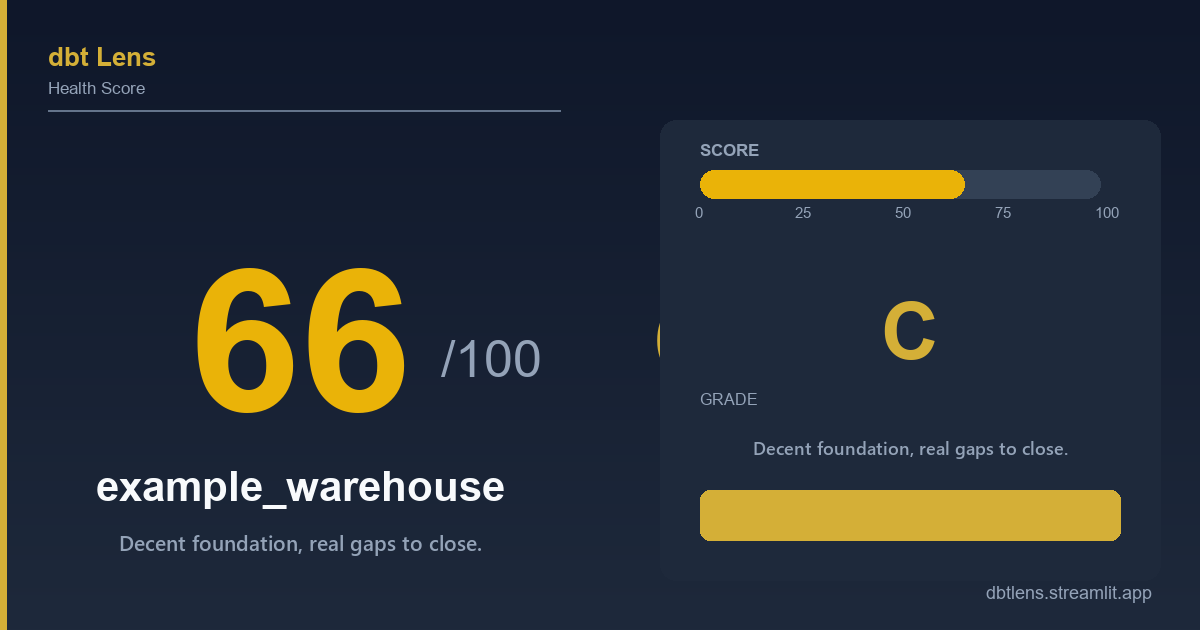
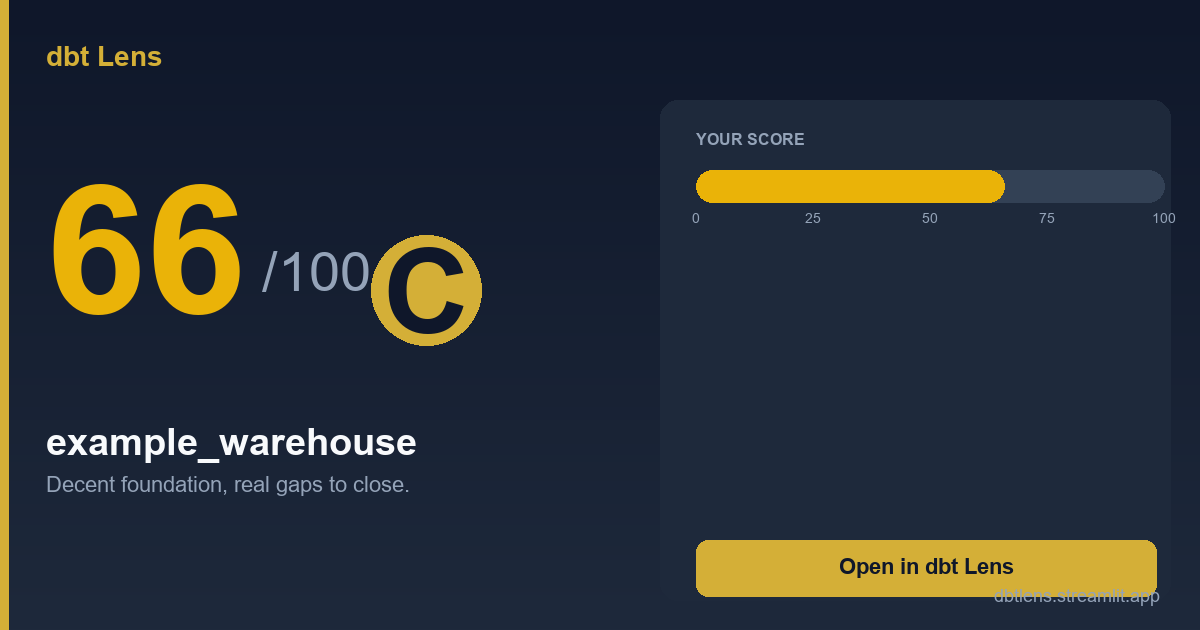
Fix DAG (description wrap, hide nav buttons, widen legend) + redesign share card (no duplicate score/grade/URL, clean CTA button)

diff --git a/dbtlens/card_generator.py b/dbtlens/card_generator.py
@@ -173,108 +173,119 @@ def generate_card(
     img = _gradient_bg(CARD_W, CARD_H)
     draw = ImageDraw.Draw(img)
 
-    # --- Accent stripe on left edge ---
-    draw.rectangle((0, 0, 6, CARD_H), fill=ACCENT)
+    # ── Accent stripe on left edge ─────────────────────────────────────
+    draw.rectangle((0, 0, 8, CARD_H), fill=ACCENT)
 
-    # --- Top-left brand mark ---
-    brand_font = _load_font(_FONT_CANDIDATES_BOLD, 26)
-    draw.text((48, 42), "dbt Lens", font=brand_font, fill=ACCENT)
-    sub_brand = _load_font(_FONT_CANDIDATES_REG, 17)
-    draw.text((48, 78), "Health Score", font=sub_brand, fill=TEXT_SECONDARY)
+    # ── LEFT SIDE — Brand + Score + Grade + Project name ────────────────
 
-    # --- Divider line ---
-    draw.rectangle((48, 110, 560, 111), fill=(100, 116, 139))
+    # Brand name at top-left
+    brand_font = _load_font(_FONT_CANDIDATES_BOLD, 28)
+    draw.text((46, 40), "dbt Lens", font=brand_font, fill=ACCENT)
 
-    # --- Big score (center-left) ---
-    big_font = _load_font(_FONT_CANDIDATES_BOLD, 200)
-    score_text = str(score)
-    _draw_text_centered(draw, score_text, big_font, (300, 340), _score_color(score))
+    # Big score number — large, readable, left-aligned
+    big_font = _load_font(_FONT_CANDIDATES_BOLD, 180)
+    score_color = _score_color(score)
+    # Draw score at a fixed left position so it's readable
+    draw.text((46, 150), str(score), font=big_font, fill=score_color)
 
-    # --- "/100" denominator ---
-    slash_font = _load_font(_FONT_CANDIDATES_REG, 52)
-    bbox = draw.textbbox((0, 0), score_text, font=big_font)
+    # "/100" beside the score
+    slash_font = _load_font(_FONT_CANDIDATES_REG, 56)
+    bbox = draw.textbbox((0, 0), str(score), font=big_font)
     score_w = bbox[2] - bbox[0]
-    _draw_text_left(draw, "/100", slash_font, 300 + score_w // 2 + 30, 340, TEXT_SECONDARY)
+    draw.text((46 + score_w + 16, 240), "/100", font=slash_font, fill=TEXT_SECONDARY)
 
-    # --- Grade badge ---
+    # Grade badge — to the right of the score
     if grade:
-        grade_font = _load_font(_FONT_CANDIDATES_BOLD, 110)
-        _draw_text_centered(
-            draw, grade, grade_font, (300 + score_w // 2 + 280, 340), ACCENT
+        grade_font = _load_font(_FONT_CANDIDATES_BOLD, 120)
+        # Position grade to the right of the score number
+        grade_x = 46 + score_w + 120
+        # Draw grade in a circle-ish badge
+        badge_r = 55
+        badge_cx = grade_x + 60
+        badge_cy = 290
+        draw.ellipse(
+            [badge_cx - badge_r, badge_cy - badge_r,
+             badge_cx + badge_r, badge_cy + badge_r],
+            fill=ACCENT,
+        )
+        # Draw grade letter centered
+        bbox_g = draw.textbbox((0, 0), grade, font=grade_font)
+        gw = bbox_g[2] - bbox_g[0]
+        gh = bbox_g[3] - bbox_g[1]
+        draw.text(
+            (badge_cx - gw // 2 - bbox_g[0], badge_cy - gh // 2 - bbox_g[1]),
+            grade, font=grade_font, fill=(15, 23, 42)
         )
 
-    # --- Project name ---
-    name_font = _load_font(_FONT_CANDIDATES_BOLD, 42)
-    _draw_text_centered(draw, name, name_font, (300, 490), TEXT_PRIMARY)
+    # Project name below score
+    name_font = _load_font(_FONT_CANDIDATES_BOLD, 38)
+    draw.text((46, 420), name, font=name_font, fill=TEXT_PRIMARY)
 
-    # --- Verdict tagline ---
+    # Verdict below project name
     verdict = _verdict_for(score)
-    verdict_font = _load_font(_FONT_CANDIDATES_LIGHT, 21)
-    _draw_text_centered(draw, verdict, verdict_font, (300, 545), TEXT_SECONDARY)
+    verdict_font = _load_font(_FONT_CANDIDATES_REG, 22)
+    draw.text((46, 472), verdict, font=verdict_font, fill=TEXT_SECONDARY)
 
-    # --- Right panel: score band + scan badge ---
+    # ── RIGHT SIDE — Progress bar + Scan badge ─────────────────────────
+
     panel_x = 660
     # Panel background
     draw.rounded_rectangle(
-        (panel_x, 120, panel_x + 500, CARD_H - 50),
-        radius=16,
+        (panel_x, 100, CARD_W - 30, CARD_H - 30),
+        radius=18,
         fill=(30, 41, 59),
     )
 
-    # Score band section
-    bar_x0, bar_y0 = panel_x + 40, 170
-    bar_w, bar_h = 400, 28
+    # "YOUR SCORE" label
+    label_font = _load_font(_FONT_CANDIDATES_BOLD, 16)
+    draw.text((panel_x + 36, 130), "YOUR SCORE", font=label_font, fill=TEXT_SECONDARY)
 
-    band_label_font = _load_font(_FONT_CANDIDATES_BOLD, 17)
-    draw.text((bar_x0, bar_y0 - 30), "SCORE", font=band_label_font, fill=TEXT_SECONDARY)
+    # Progress bar track
+    bar_x0, bar_y0 = panel_x + 36, 170
+    bar_w, bar_h = CARD_W - panel_x - 72, 32
 
-    # track
     draw.rounded_rectangle(
-        (bar_x0, bar_y0, bar_x0 + bar_w, bar_y0 + bar_h), radius=14, fill=(51, 65, 85)
+        (bar_x0, bar_y0, bar_x0 + bar_w, bar_y0 + bar_h),
+        radius=16, fill=(51, 65, 85)
     )
-    fill_w = max(4, int(bar_w * (score / 100.0)))
+    fill_w = max(8, int(bar_w * (score / 100.0)))
     draw.rounded_rectangle(
         (bar_x0, bar_y0, bar_x0 + fill_w, bar_y0 + bar_h),
-        radius=14,
-        fill=_score_color(score),
+        radius=16, fill=score_color
     )
-    # tick labels
-    tick_font = _load_font(_FONT_CANDIDATES_REG, 15)
+
+    # Tick labels below bar
+    tick_font = _load_font(_FONT_CANDIDATES_REG, 14)
     for tick in (0, 25, 50, 75, 100):
         tx = bar_x0 + int(bar_w * (tick / 100.0))
-        draw.text((tx - 5, bar_y0 + bar_h + 6), str(tick), font=tick_font, fill=TEXT_SECONDARY)
+        lbl = str(tick)
+        tb = draw.textbbox((0, 0), lbl, font=tick_font)
+        lw = tb[2] - tb[0]
+        draw.text((tx - lw // 2 - tb[0], bar_y0 + bar_h + 8), lbl,
+                  font=tick_font, fill=TEXT_SECONDARY)
 
-    # Grade + verdict in panel
-    if grade:
-        grade_big_font = _load_font(_FONT_CANDIDATES_BOLD, 80)
-        _draw_text_centered(draw, grade, grade_big_font, (panel_x + 250, 330), ACCENT)
-        grade_label_font = _load_font(_FONT_CANDIDATES_REG, 16)
-        draw.text((panel_x + 40, 390), "GRADE", font=grade_label_font, fill=TEXT_SECONDARY)
+    # Grade — only show on left (it's the hero). Skip duplicate on right.
+    # Right panel focuses on the score bar and call to action.
 
-    verdict_panel_font = _load_font(_FONT_CANDIDATES_LIGHT, 18)
-    _draw_text_centered(draw, verdict, verdict_panel_font, (panel_x + 250, 450), TEXT_SECONDARY)
-
-    # Scan badge
+    # "Open in dbt Lens" CTA badge — bottom of panel
+    cta_y = CARD_H - 90
+    cta_font = _load_font(_FONT_CANDIDATES_BOLD, 22)
     draw.rounded_rectangle(
-        (panel_x + 40, 490, panel_x + 460, 540),
-        radius=10,
-        fill=(212, 175, 55, 30),
+        (panel_x + 36, cta_y, panel_x + 36 + 460, cta_y + 56),
+        radius=12, fill=ACCENT
     )
-    scan_font = _load_font(_FONT_CANDIDATES_BOLD, 16)
-    draw.text(
-        (panel_x + 60, 502),
-        f"🔬  Scanned with dbt Lens",
-        font=scan_font,
-        fill=ACCENT,
-    )
+    # Center text in button
+    tb_cta = draw.textbbox((0, 0), "Open in dbt Lens", font=cta_font)
+    cta_tw = tb_cta[2] - tb_cta[0]
+    draw.text((panel_x + 36 + 230 - cta_tw // 2 - tb_cta[0], cta_y + 14),
+              "Open in dbt Lens", font=cta_font, fill=(15, 23, 42))
 
-    # --- Footer URL (bottom right) ---
+    # ── Footer URL (bottom right corner) ────────────────────────────────
     footer_font = _load_font(_FONT_CANDIDATES_REG, 18)
     bbox = draw.textbbox((0, 0), footer_url, font=footer_font)
     fw = bbox[2] - bbox[0]
-    draw.text(
-        (CARD_W - fw - 48, CARD_H - 48), footer_url, font=footer_font, fill=TEXT_SECONDARY
-    )
+    draw.text((CARD_W - fw - 40, CARD_H - 45), footer_url,
+              font=footer_font, fill=TEXT_SECONDARY)
 
     return img
 

diff --git a/app.py b/app.py
@@ -537,12 +537,11 @@ def main() -> None:
 
     # === The "wow moment" — DAG first, then the score.
     st.header("🕸  Project DAG")
-    st.markdown(
-        "<span style='font-size:0.82rem; color:#64748b;'>"
-        "This is your project's <b>Directed Acyclic Graph (DAG)</b> — "
-        "a map of how every model connects from raw sources (left) to final business tables (right). "
-        "Use <b>+</b> / <b>-</b> to zoom, or drag nodes to rearrange. "
-        "The color of each node tells you its health status at a glance."
+st.markdown(
+        "<span style='font-size:0.82rem; color:#64748b; display:block; max-width:900px; line-height:1.5;'>"
+        "Your project's <b>DAG</b> — a map of how every model connects from sources (left) "
+        "to final business tables (right). Drag to rearrange, <b>+</b>/<b>-</b> to zoom. "
+        "Node color = health status."
         "</span>",
         unsafe_allow_html=True,
     )

diff --git a/dbtlens/dag_renderer.py b/dbtlens/dag_renderer.py
@@ -272,14 +272,15 @@ _VIS_HTML = r"""
     background: rgba(255,255,255,0.02);
   }
   .legend {
-    position: absolute; top: 72px; right: 32px;
+    position: absolute; top: 72px; right: 20px;
     background: rgba(15,23,42,0.92);
     backdrop-filter: blur(12px);
-    padding: 16px 18px; border-radius: 12px;
+    padding: 16px 20px; border-radius: 12px;
     font-size: 12px;
     border: 1px solid rgba(255,255,255,0.1);
     box-shadow: 0 8px 24px rgba(0,0,0,0.3);
-    min-width: 180px;
+    min-width: 220px;
+    max-width: 240px;
   }
   .legend-title {
     color: #94a3b8;
@@ -325,6 +326,9 @@ _VIS_HTML = r"""
     padding: 8px 14px; border-radius: 20px;
     backdrop-filter: blur(8px);
   }
+  /* Kill vis-network's built-in nav buttons — we use our own controls */
+  .vis-navigation { display: none !important; }
+  .vis-zoom-actions { display: none !important; }
 </style>
 </head>
 <body>